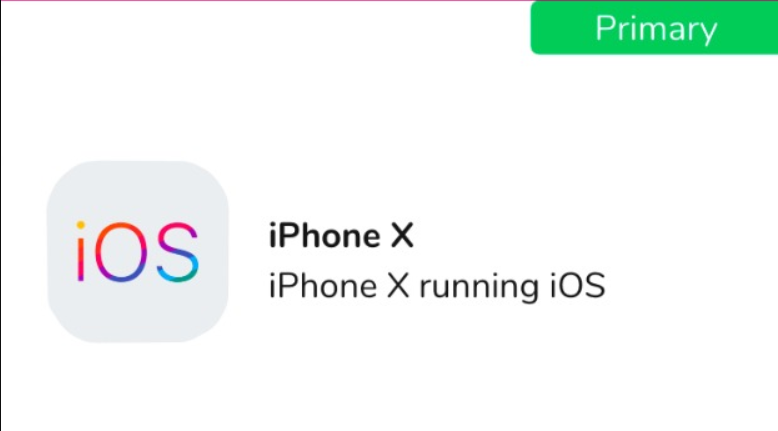
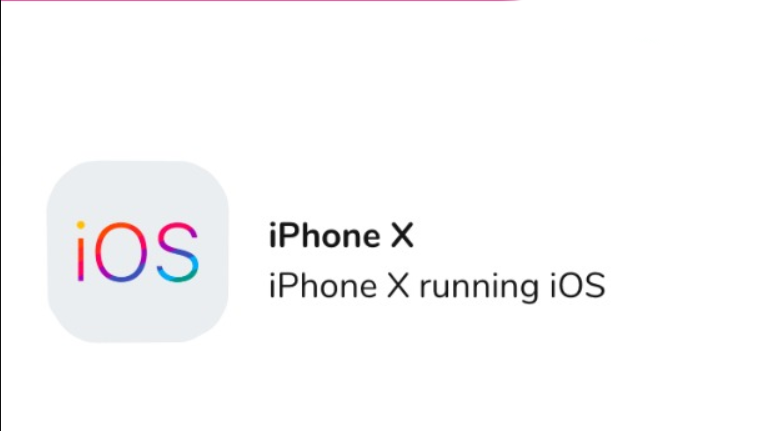
Added the 'primary' container in s stack with the Device Image

Changed region(s): [[0.6787, 0.0, 1.0, 0.1508]]

diff --git a/lib/screens/my_device.dart b/lib/screens/my_device.dart
@@ -18,11 +18,33 @@ class _MyDeviceState extends State<MyDevice> {
       body: Column(
         crossAxisAlignment: CrossAxisAlignment.start,
         children: [
-          Container(
-            height: MediaQuery.of(context).size.height * 0.28,
-            child: Image(
-              image: AssetImage('images/device_img.png'),
-            ),
+          Stack(
+            children: <Widget>[
+              Container(
+                height: MediaQuery.of(context).size.height * 0.28,
+                child: Image(
+                  image: AssetImage('images/device_img.png'),
+                ),
+              ),
+              Positioned(
+                right: 0,
+                top: 0,
+                child: Container(
+                  padding: EdgeInsets.fromLTRB(30, 5, 30, 5),
+                  decoration: BoxDecoration(
+                    borderRadius: BorderRadius.circular(3),
+                    color: Color(0xff01CC57),
+                  ),
+                  child: Text(
+                    'Primary',
+                    style: TextStyle(
+                        fontSize: 16,
+                        color: Colors.white,
+                        fontWeight: FontWeight.w500),
+                  ),
+                ),
+              ),
+            ],
           ),
           Padding(
             padding: EdgeInsets.fromLTRB(15, 15, 20, 10),
